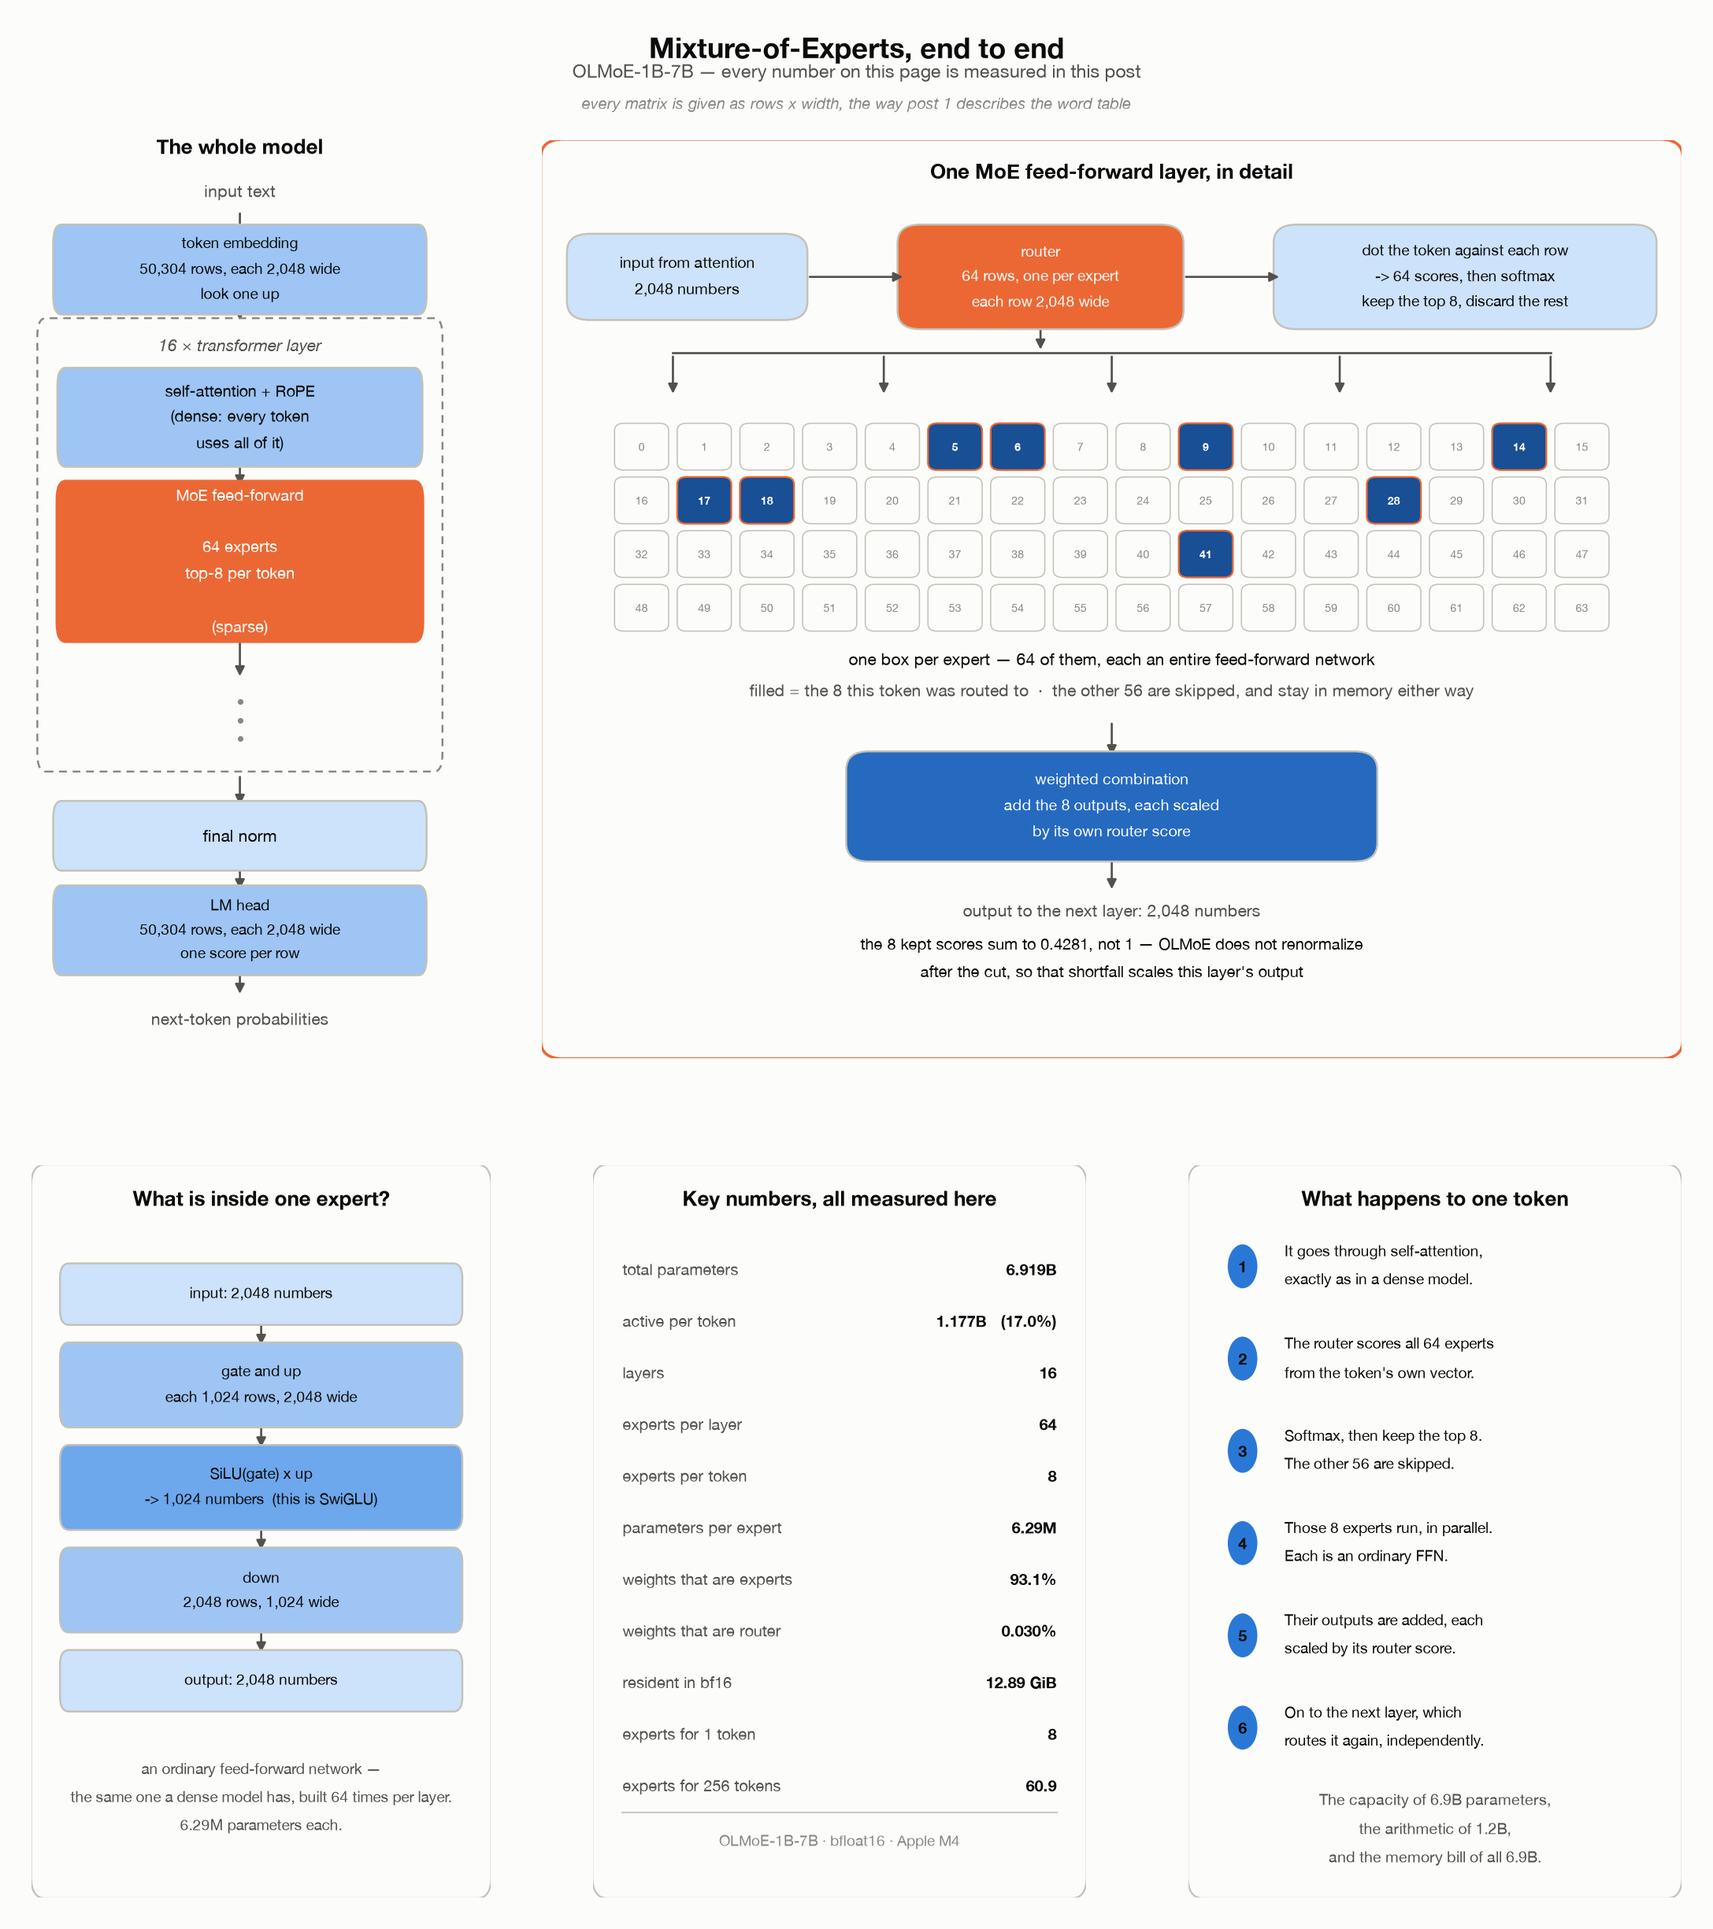
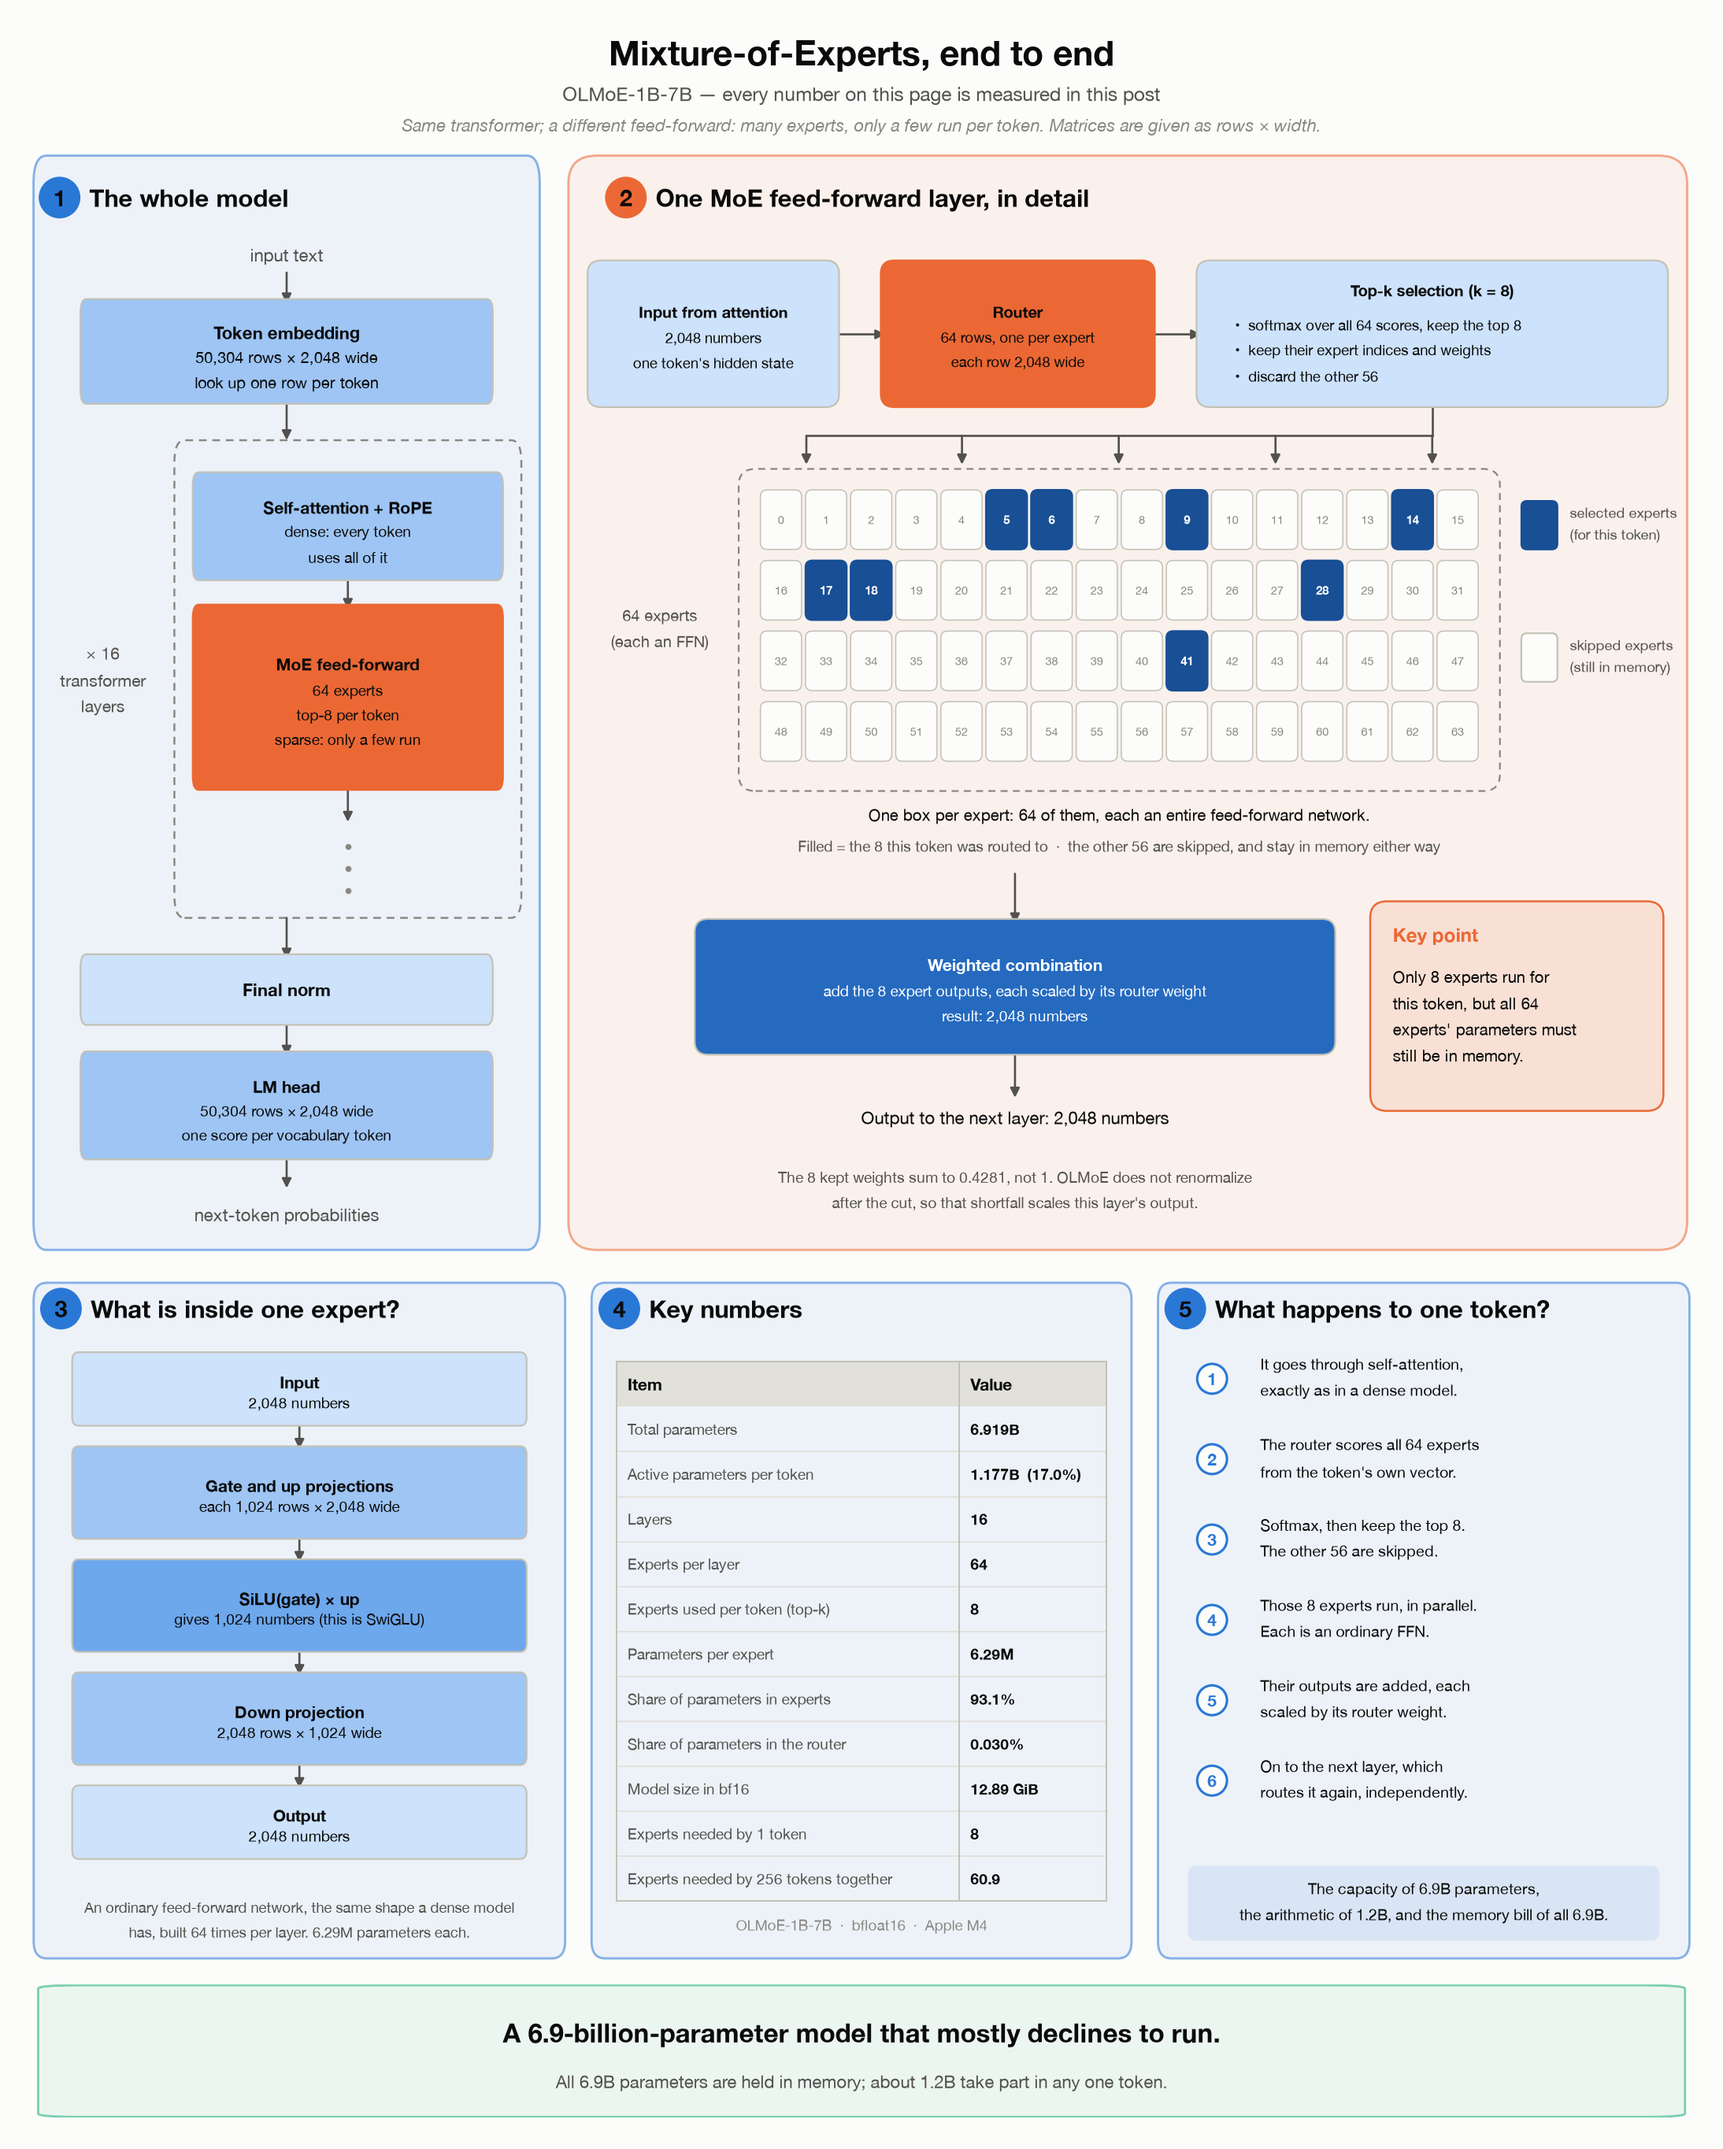
Post 5: use the rebuilt architecture diagram, and refer to its panels by number
The figure is now five numbered panels, so the intro says which is which: panel 1
the whole model, panel 2 one MoE layer opened up, and the expert grid is in
panel 2. Its declared height moves from 1239 to 1372. The demo re-run moved the
wall-clock ratio from 2.23 to 2.17, synced in the timing block and the five
sentences that quote it.

Claude-Session: https://claude.ai/code/session_01P53gibRfXv8ktbLewmVNgL

Changed region(s): [[0.0, 0.0, 0.9857, 0.9927]]

diff --git a/_posts/2026-09-09-llm-architectures-mixture-of-experts.md b/_posts/2026-09-09-llm-architectures-mixture-of-experts.md
@@ -43,10 +43,10 @@ Nothing here is being approximated just because the model is sparse. OLMoE was t
 
 The arithmetic is strange the first time you see it. The model in this post has **6.9 billion** parameters, and for any one token it activates about **1.2 billion** of them. The other **5.7 billion** sit in memory, untouched by that token, waiting for other tokens that need them. That is the sense in which this is a model that mostly declines to run.
 
-If you would rather see the shape of the thing before the arithmetic starts, the whole architecture is on one page below. Every number on it is measured later in the post. The grid of numbered boxes in the middle panel is the layer's **64 experts, one box per FFN**, and the eight filled boxes are the experts selected for one real token.
+If you would rather see the shape of the thing before the arithmetic starts, the whole architecture is on one page below. Every number on it is measured later in the post. The panels are numbered: panel 1 is the whole model, and panel 2 opens up one of its MoE layers. The grid of numbered boxes in panel 2 is that layer's **64 experts, one box per FFN**, and the eight filled boxes are the experts selected for one real token.
 
-![Mixture-of-experts end to end: the whole model, one MoE layer in detail, what is inside one expert, the key numbers, and what happens to a single token](/assets/picture/2026-09-09-llm-architectures-mixture-of-experts/moe-architecture-light.png){: .light width="1100" height="1239" }
-![Mixture-of-experts end to end: the whole model, one MoE layer in detail, what is inside one expert, the key numbers, and what happens to a single token](/assets/picture/2026-09-09-llm-architectures-mixture-of-experts/moe-architecture-dark.png){: .dark width="1100" height="1239" }
+![Mixture-of-experts end to end: the whole model, one MoE layer in detail, what is inside one expert, the key numbers, and what happens to a single token](/assets/picture/2026-09-09-llm-architectures-mixture-of-experts/moe-architecture-light.png){: .light width="1100" height="1372" }
+![Mixture-of-experts end to end: the whole model, one MoE layer in detail, what is inside one expert, the key numbers, and what happens to a single token](/assets/picture/2026-09-09-llm-architectures-mixture-of-experts/moe-architecture-dark.png){: .dark width="1100" height="1372" }
 
 The rest of this post is about how the model decides which eight to wake up, and what letting the other fifty-six sleep actually buys, and costs.
 
@@ -92,7 +92,7 @@ A **mixture-of-experts** layer replaces one FFN with many smaller ones, called *
 - **The router costs almost nothing.** One matrix per layer, 64 rows each 2,048 wide, 2.10M parameters, **0.030%** of the model, deciding how the other 93% get spent ([§2](#the-router)).
 - **Routing is a softmax, a cut, and a weighted sum** (softmax turns raw scores into probabilities that add to 1), and OLMoE does not renormalize after the cut. The eight kept weights on the token walked through in [§3](#one-token-routed) sum to **0.4281**, not 1, so the router's confidence becomes a scale on the layer's output.
 - **The router does specialize, and it is measurable rather than folklore.** Two halves of the *same* passage route differently by 0.216; the three pairs of different text average 0.554, **2.56×** that noise floor, and the gap widens with depth ([§4](#what-the-router-learns)).
-- **Active parameters predict time; total parameters predict memory.** Forcing all 64 experts on costs **2.23×** the elapsed time and exactly zero extra bytes of weights ([§5](#two-bills)).
+- **Active parameters predict time; total parameters predict memory.** Forcing all 64 experts on costs **2.17×** the elapsed time and exactly zero extra bytes of weights ([§5](#two-bills)).
 - **Per-token sparsity is not batch sparsity.** One token needs 8 experts of 64. Two hundred and fifty-six tokens together need **60.9** ([§6](#sparsity-and-batching)). That is why an MoE saves arithmetic without saving memory.
 - **Splitting the experts across GPUs makes the router a network problem.** With 64 experts on 8 GPUs, one token's eight experts land on **5.54** different GPUs on average ([§7](#across-gpus)).
 - **Nothing keeps the experts equally busy on its own.** The busiest expert in layer 0 takes **5.71×** an even share, and four experts in the last layer go unused by the test passage ([§8](#load-balance)).
@@ -369,17 +369,17 @@ Expert 17 takes 9.73% of code's routing slots against 0.13% of prose's, where an
 ```text
   experts per token  forward (ms)  vs top-8
   -------------------------------------------
-  8                         413.3     1.00x
-  64                        922.0     2.23x
+  8                         422.1     1.00x
+  64                        918.0     2.17x
 
   expert FLOPs ratio (64/8)          8x
-  measured wall-clock ratio          2.23x
+  measured wall-clock ratio          2.17x
     below 8x because attention, norms and the LM head are unchanged
 ```
 
-Eight times the expert arithmetic costs 2.23× the wall clock, and zero extra bytes of weights.
+Eight times the expert arithmetic costs 2.17× the wall clock, and zero extra bytes of weights.
 
-Both halves of that deserve a note. The **2.23× rather than 8×** is because only the expert multiplies grew; attention, the norms and the LM head are unchanged, and on a 94-token forward pass those are a large share of the total. The gap between 8× and 2.23× is a useful reminder that "active parameters" predicts the *trend* of speed, not a clean multiplier.
+Both halves of that deserve a note. The **2.17× rather than 8×** is because only the expert multiplies grew; attention, the norms and the LM head are unchanged, and on a 94-token forward pass those are a large share of the total. The gap between 8× and 2.17× is a useful reminder that "active parameters" predicts the *trend* of speed, not a clean multiplier.
 
 Unlike every other number in this post, this one is a wall-clock measurement and it moves a little from run to run; the counts and ratios elsewhere do not. And the top-64 row is a measurement of **cost only**. Because `norm_topk_prob` is false, routing to all 64 experts changes what the model computes; it is a timing experiment, not a quality one.
 
@@ -545,7 +545,7 @@ Half of that is right, which is what makes it dangerous.
 
 **1. Separate the two bills immediately.** Memory is billed on **total** parameters and compute on **active** ones. You need all 6.9B resident — **12.9 GiB** in bf16 — because the router chooses at run time and any token can want any expert. Speed is the part that tracks the 1B figure.
 
-**2. Then refuse the "1B-dense speed" claim as stated.** Active parameters predict the trend, not a clean multiplier. Measured on the same weights with only $k$ changed, 8× the expert arithmetic produced **2.23×** the wall clock, because attention and the LM head do not scale with $k$. How close you get to 1B-dense speed depends on sequence length and batch size.
+**2. Then refuse the "1B-dense speed" claim as stated.** Active parameters predict the trend, not a clean multiplier. Measured on the same weights with only $k$ changed, 8× the expert arithmetic produced **2.17×** the wall clock, because attention and the LM head do not scale with $k$. How close you get to 1B-dense speed depends on sequence length and batch size.
 
 **3. And say why the memory does not improve with batching.** One token needs 8 of 64 experts; 256 tokens together need **60.9**. Sparsity is per token, so at any serving batch size essentially every expert is live. If the interviewer's real question is "can I fit this on a smaller card," the answer is no, and the reason is that the union of what a batch needs is nearly everything.
 
